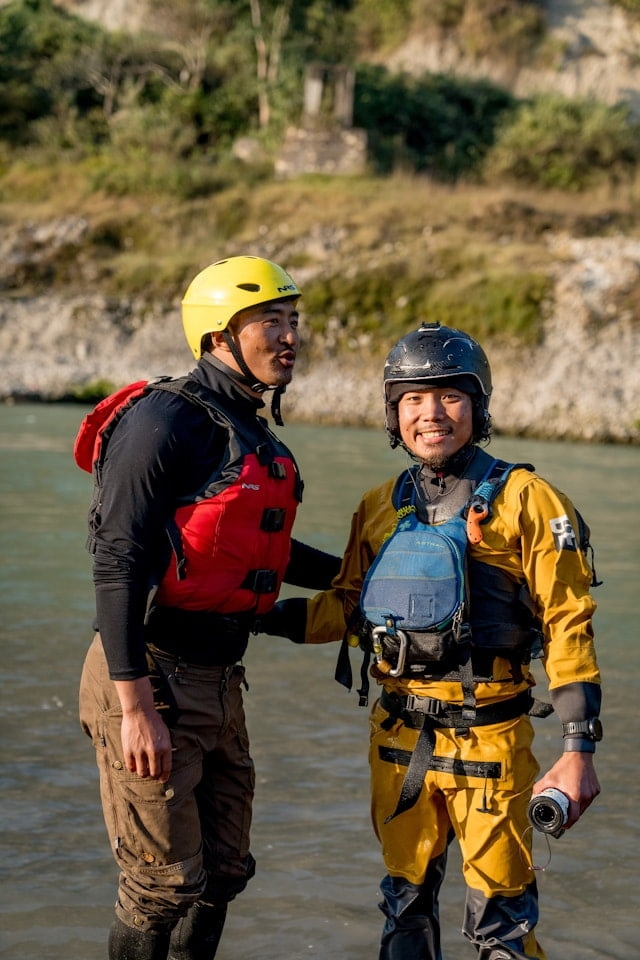
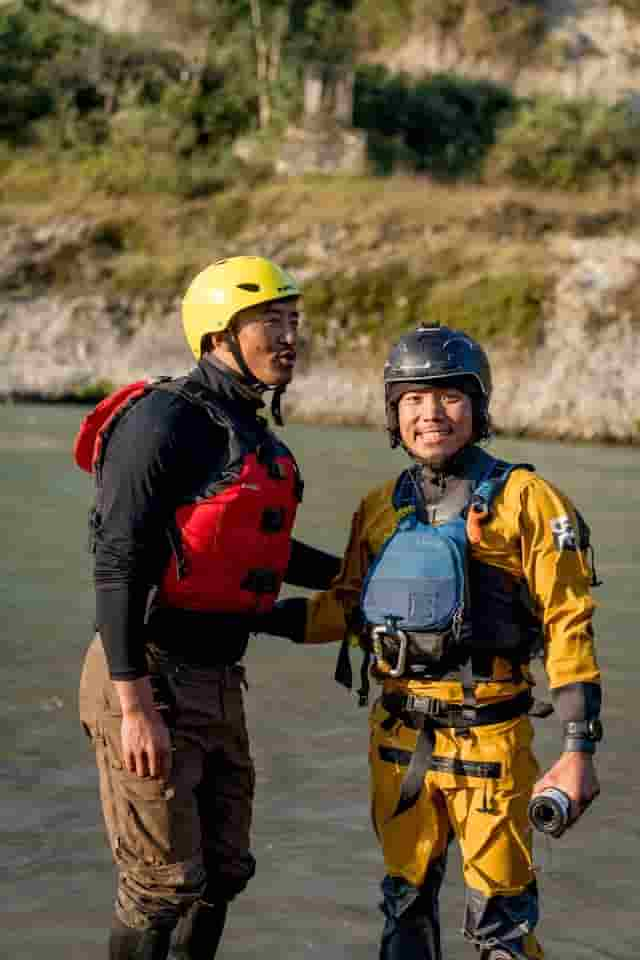
finished project work

diff --git a/wwr/trips.html b/wwr/trips.html
@@ -89,22 +89,6 @@
                         <td>$280</td>
                         <td>16+</td>
                     </tr>
-                    <tr>
-                        <td>Family Float</td>
-                        <td>3 hours</td>
-                        <td>Easy</td>
-                        <td>Class I–II</td>
-                        <td>$55</td>
-                        <td>4+</td>
-                    </tr>
-                    <tr>
-                        <td>Extreme Whitewater Tour</td>
-                        <td>6 hours</td>
-                        <td>Expert</td>
-                        <td>Class V</td>
-                        <td>$160</td>
-                        <td>18+</td>
-                    </tr>
                 </tbody>
             </table>
         </section>
@@ -116,15 +100,13 @@
         </section>
     </main>
 
-    <footer>
-        <div class="footer_layout">
-            <p>&copy; 2026 | Rapids Whitewater Rafting Company | Samuel Motey Howard, Ghana</p>
-            <nav class="socialmedia" aria-label="Social Media Links">
-                <a href="https://www.facebook.com/"><img src="images/facebook_logo_icon_147291.png" alt="Visit our Facebook page"></a>
-                <a href="https://www.linkedin.com/"><img src="images/linkedin.png" alt="Visit our LinkedIn page"></a>
-                <a href="https://www.instagram.com/"><img src="images/3721672-instagram_108066.png" alt="Visit our Instagram page"></a>
-            </nav>
-        </div>
+    <footer class="footer_layout">
+        <p>&copy; 2026 | Rapids Whitewater Rafting Company | Samuel Motey Howard, Ghana</p>
+        <nav class="socialmedia" aria-label="Social Media Links">
+            <a href="https://www.facebook.com/"><img src="images/facebook_logo_icon_147291.png" alt="Visit our Facebook page"></a>
+            <a href="https://www.linkedin.com/"><img src="images/linkedin.png" alt="Visit our LinkedIn page"></a>
+            <a href="https://www.instagram.com/"><img src="images/3721672-instagram_108066.png" alt="Visit our Instagram page"></a>
+        </nav>
     </footer>
 </body>
 </html>

diff --git a/wwr/styles/rafting.css b/wwr/styles/rafting.css
@@ -20,7 +20,6 @@ body {
 header,
 main,
 footer {
-    width: 100%;
     margin: 0 auto;
 }
 
@@ -84,16 +83,13 @@ footer {
     width: 100%;
     background-color: var(--accent2-color);
     padding: 10px;
+    display: grid;
+    grid-template-columns: 1fr 1fr;
+    gap: 10px;
 }
 
 footer p {
     color: #fff;
-}
-
-.footer_layout {
-    display: grid;
-    grid-template-columns: 1fr 1fr;
-    gap: 10px;
 }
 
 .socialmedia a {
@@ -102,13 +98,14 @@ footer p {
 
 .hero {
     position: relative;
+    width: 100%;
 }
 
 .hero img {
     display: block;
-    width: 96%;
+    width: 100%;
     height: 500px;
-    margin-left: 30px;
+    object-fit: cover;
 }
 
 .hero h1 {
@@ -121,6 +118,7 @@ footer p {
     padding: 16px 32px;
     text-align: center;
     width: 100%;
+    max-width: 100%;
 }
 
 .hero article {
@@ -274,14 +272,15 @@ button {
     background-color: #f5ede3;
 }
 
-.newsletter p{
-    margin-left: 390px ;
+.newsletter p {
     color: black;
+    text-align: center;
 }
 
 .newsletter form {
     display: flex;
     justify-content: center;
+    align-items: center;
     gap: 10px;
     margin-top: 16px;
     flex-wrap: wrap;
@@ -341,19 +340,20 @@ button {
     background-color: #d8c9b8;
 }
 
+.cta-section h2 {
+    color: var(--accent2-color);
+}
+
 .cta-section p {
     color: black;
     margin-bottom: 20px;
-    margin-left:390px ;
+    text-align: center;
 }
 
-.cta-section a{
-    background-color: var(--secondary-color);
-}
 .cta-button {
     display: inline-block;
     padding: 12px 32px;
-    background-color: var(--secondary-color);
+    background-color: var(--accent2-color);
     color: white;
     text-decoration: none;
     border-radius: 4px;
@@ -370,9 +370,10 @@ button {
 }
 
 .tripSecondOne img {
-    width: 90%;
+    width: 100%;
     height: 540px;
-    margin-left: 70px;
+    object-fit: cover;
+    margin: 0;
 }
 
 .tripSecondOne h2 {
@@ -540,4 +541,3 @@ button {
 .trips-table tr:nth-child(even) {
     background-color: #e8ddd0;
 }
-

diff --git a/wwr/about.html b/wwr/about.html
@@ -85,7 +85,7 @@
                 </figure>
 
                 <figure>
-                    <img src="images/adventure4.jpg" alt="Family laughing and rafting together on a fun and safe family adventure trip">
+                    <img src="images/adventure4.webp" alt="Family laughing and rafting together on a fun and safe family adventure trip">
                     <figcaption>Family Adventure</figcaption>
                 </figure>
 
@@ -98,18 +98,13 @@
     </main>
 
 
-    <footer>
-        <div class="footer_layout">
-            <p>&copy; 2026 | Rapids Whitewater Rafting Company | Samuel Motey Howard, Ghana</p>
-            <nav class="socialmedia" aria-label="Social Media Links" >
-                <a href="https://www.facebook.com/"><img src="images/facebook_logo_icon_147291.png"
-                      alt="Visit our Facebook page"></a>
-                <a href="https://www.linkedin.com/"><img src="images/linkedin.png"
-                      alt="Visit our linkedin page"></a>
-                <a href="https://www.instagram.com/"><img src="images/3721672-instagram_108066.png"
-                      alt="Visit our instagram page"></a>
-            </nav>
-        </div>
+    <footer class="footer_layout">
+        <p>&copy; 2026 | Rapids Whitewater Rafting Company | Samuel Motey Howard, Ghana</p>
+        <nav class="socialmedia" aria-label="Social Media Links">
+            <a href="https://www.facebook.com/"><img src="images/facebook_logo_icon_147291.png" alt="Visit our Facebook page"></a>
+            <a href="https://www.linkedin.com/"><img src="images/linkedin.png" alt="Visit our LinkedIn page"></a>
+            <a href="https://www.instagram.com/"><img src="images/3721672-instagram_108066.png" alt="Visit our Instagram page"></a>
+        </nav>
     </footer>
 </body>
 

diff --git a/wwr/index.html b/wwr/index.html
@@ -60,19 +60,17 @@
         <section class="cta-section">
             <h2>Not Sure Which Trip is Right for You?</h2>
             <p>Our rafting consultants are ready to help you pick the perfect adventure.</p>
-            <a href="contact.html" class="cta-button"><button type="button">Contact Us</button></a>
+            <a href="trips.html" class="cta-button">View Trips</a>
         </section>
     </main>
 
-    <footer>
-        <div class="footer_layout">
-            <p>&copy; 2026 | Rapids Whitewater Rafting Company | Samuel Motey Howard, Ghana</p>
-            <nav class="socialmedia" aria-label="Social Media Links">
-                <a href="https://www.facebook.com/"><img src="images/facebook_logo_icon_147291.png" alt="Visit our Facebook page"></a>
-                <a href="https://www.linkedin.com/"><img src="images/linkedin.png" alt="Visit our LinkedIn page"></a>
-                <a href="https://www.instagram.com/"><img src="images/3721672-instagram_108066.png" alt="Visit our Instagram page"></a>
-            </nav>
-        </div>
+    <footer class="footer_layout">
+        <p>&copy; 2026 | Rapids Whitewater Rafting Company | Samuel Motey Howard, Ghana</p>
+        <nav class="socialmedia" aria-label="Social Media Links">
+            <a href="https://www.facebook.com/"><img src="images/facebook_logo_icon_147291.png" alt="Visit our Facebook page"></a>
+            <a href="https://www.linkedin.com/"><img src="images/linkedin.png" alt="Visit our LinkedIn page"></a>
+            <a href="https://www.instagram.com/"><img src="images/3721672-instagram_108066.png" alt="Visit our Instagram page"></a>
+        </nav>
     </footer>
 </body>
 </html>

diff --git a/wwr/contact.html b/wwr/contact.html
@@ -118,18 +118,13 @@
         </section>
     </main>
 
-    <footer>
-        <div class="footer_layout">
-            <p>&copy; 2026 | Rapids Whitewater Rafting Company | Samuel Motey Howard, Ghana</p>
-            <nav class="socialmedia" aria-label="Social Media Links" >
-                <a href="https://www.facebook.com/"><img src="images/facebook_logo_icon_147291.png"
-                      alt="Visit our Facebook page"></a>
-                <a href="https://www.linkedin.com/"><img src="images/linkedin.png"
-                      alt="Visit our linkedin page"></a>
-                <a href="https://www.instagram.com/"><img src="images/3721672-instagram_108066.png"
-                      alt="Visit our instagram page"></a>
-            </nav>
-        </div>
+    <footer class="footer_layout">
+        <p>&copy; 2026 | Rapids Whitewater Rafting Company | Samuel Motey Howard, Ghana</p>
+        <nav class="socialmedia" aria-label="Social Media Links">
+            <a href="https://www.facebook.com/"><img src="images/facebook_logo_icon_147291.png" alt="Visit our Facebook page"></a>
+            <a href="https://www.linkedin.com/"><img src="images/linkedin.png" alt="Visit our LinkedIn page"></a>
+            <a href="https://www.instagram.com/"><img src="images/3721672-instagram_108066.png" alt="Visit our Instagram page"></a>
+        </nav>
     </footer>
 </body>
 </html>
